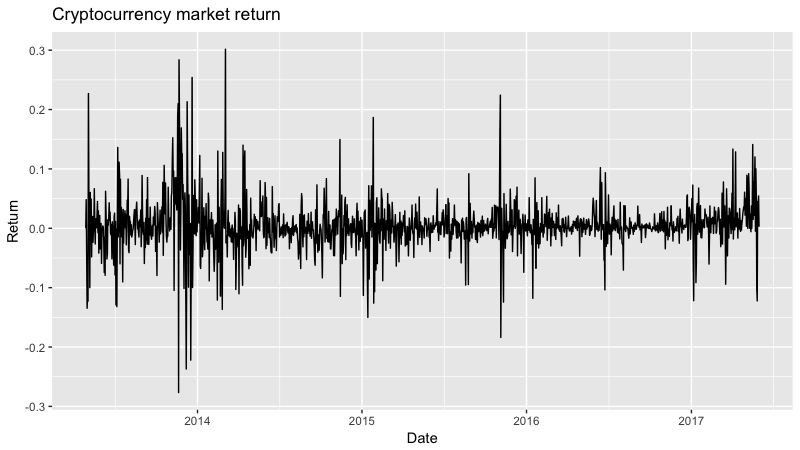
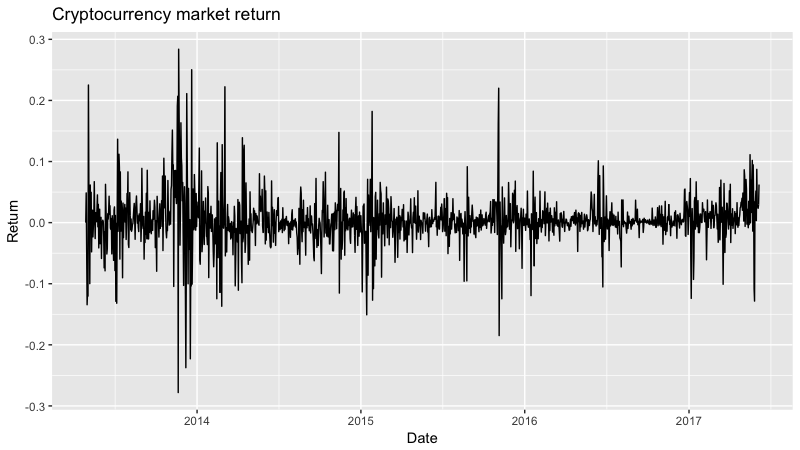
Improved market return calculation, plots based on data from 2017 only

diff --git a/README.md b/README.md
@@ -7,7 +7,7 @@ Especially in light of the increasing number of successful coins and [decreasing
 
 ## Progress
 
-*Data updated 31/05/2017; Extended to top 25; Added assets; Fixed error in corrplot*
+*Data updated 07/06/2017; Improved market return calculation; Restricted some visualizations to data from 2017*
 
 This is a work in progress. Steps taken so far:
 
@@ -29,26 +29,26 @@ This is a work in progress. Steps taken so far:
 
 	![Returns for bitcoin, ethereum and ripple](https://raw.githubusercontent.com/prouast/cryptocurrency-analysis/master/Coin-returns.png?style=centerme)
 
-	- This also allows us to investigate the correlations between the daily returns of arbitrary coins. Example: **Plotting bitcoin vs ethereum returns**. Here, every point represents one day.
+	- This also allows us to investigate the correlations between the daily returns of arbitrary coins. Example: **Plotting bitcoin vs ethereum returns**. Here, every point represents one day. *Note that this plot is based on data from 2017 only.*
 
 		> Correlation measures the linear relationship between two sets of data. A high value when comparing the daily returns of two coins indicates a positive linear relationship of the returns in the past.
 
 	![Returns for bitcoin vs ethereum](https://raw.githubusercontent.com/prouast/cryptocurrency-analysis/master/Bitcoin-vs-ethereum-returns.png?style=centerme)
 
-	- Finally, we can look at pairwise correlations between all coins: **Visualisation of the correlation matrix for top 25 cryptocurrencies**.
+	- Finally, we can look at pairwise correlations between all coins: **Visualisation of the correlation matrix for top 25 cryptocurrencies**. *Note that this plot is based on data from 2017 only.*
 
 		> The (symmetric) correlation matrix visualises the correlation for each pair of variables - from perfect positive linear relationship (blue) to perfect negative linear relationship (red).
 
 	![Corrplot](https://raw.githubusercontent.com/prouast/cryptocurrency-analysis/master/Corrplot.png?style=centerme)
 
-4. Calculate overall **market returns** by weighting individual returns with market capitalisations.
+4. Calculate overall **market returns** using daily values for overall market capitalisation.
    This series is initially dominated by bitcoin, with more altcoin influence as their market capitalisations increase.
 
 	- Corresponding to the first plot, we can now give a plot of the overall **Market return** across time:
 
 	![Market return](https://raw.githubusercontent.com/prouast/cryptocurrency-analysis/master/Market-return.png?style=centerme)
 
-	- Similarly, we can investigate the correlation of arbitrary coins with the market return. Example: **Plotting ethereum vs market return**
+	- Similarly, we can investigate the correlation of arbitrary coins with the market return. Example: **Plotting ethereum vs market return**. *Note that this plot is based on data from 2017 only.*
 
 	![Market return](https://raw.githubusercontent.com/prouast/cryptocurrency-analysis/master/Ethereum-vs-market-return.png?style=centerme)
 
@@ -59,6 +59,6 @@ This is a work in progress. Steps taken so far:
 
 		> Investors use the information encoded in the beta coefficient to characterise an asset's volatility and tendency to move in accordance with the market index. `beta = 1` indicates that the asset moves exactly like the market index. [More information.](https://en.wikipedia.org/wiki/Beta_(finance)) Here, the market is dominated by bitcoin, hence bitcoin's beta is very close to 1 and a coin's beta can also be interpreted as a comparison to bitcoin's movement.
 
-	- Here, we plot coin betas against market capitalisations for the top 25 coins in terms of market capitalisation.
+	- Here, we plot coin betas against market capitalisations for the top 20 coins in terms of market capitalisation. *Note that this plot is based on data from 2017 only.*
 
 	![Beta vs Mcap](https://raw.githubusercontent.com/prouast/cryptocurrency-analysis/master/Beta-vs-mcap.png?style=centerme)
